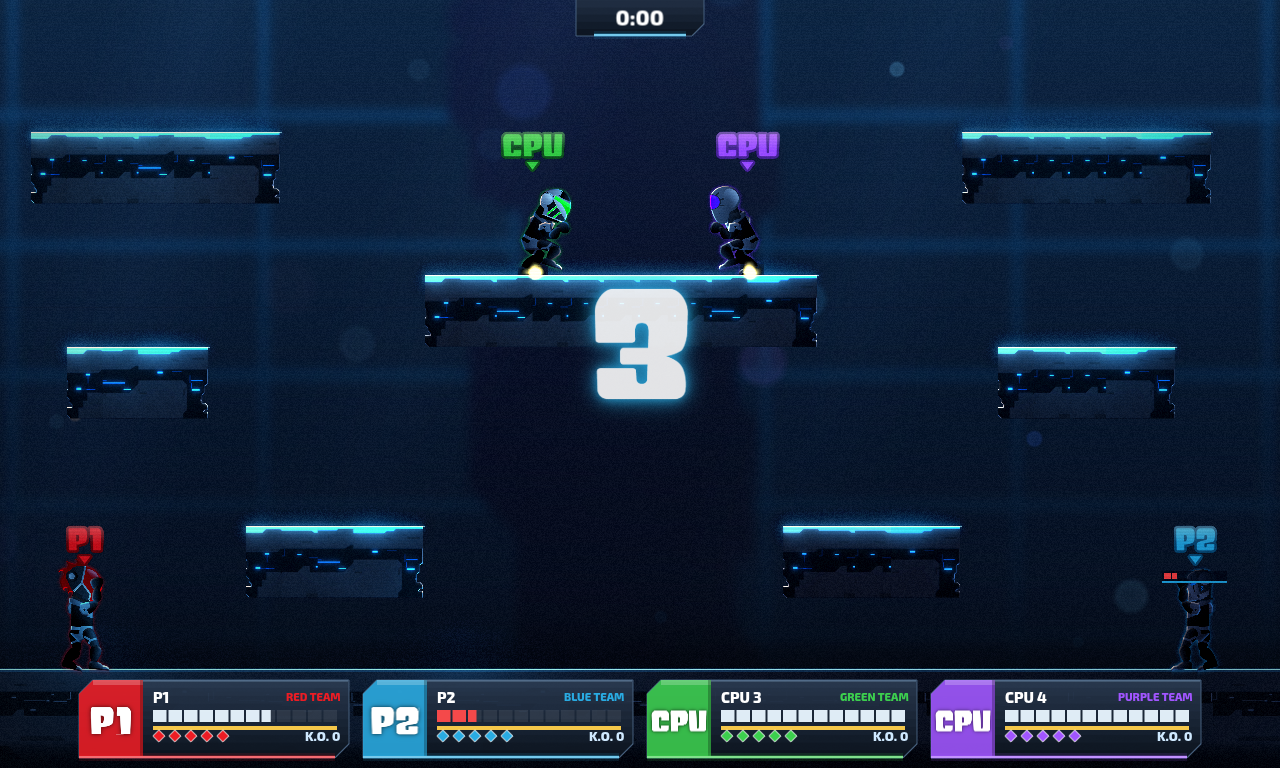
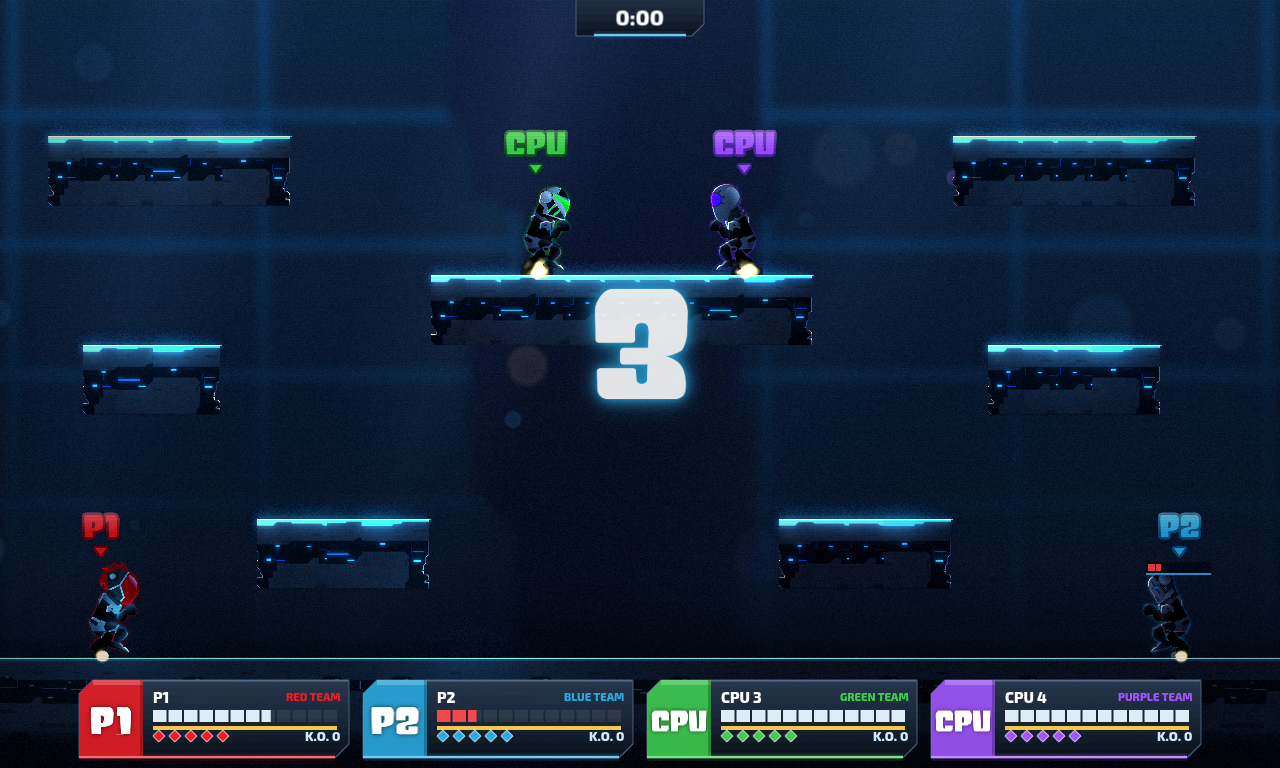
Player tags: more space above the arrow

diff --git a/web/src/ui/Type.ts b/web/src/ui/Type.ts
@@ -205,7 +205,7 @@ export function makeTagTexture(scene: Phaser.Scene, key: string, text: string, c
   const l = layout(scene, text, 150 * 0.45);
   const arrow = 18;
   /** Space between the letters and the pointer. */
-  const gap = 14;
+  const gap = 26;
   const w = Math.ceil(l.width + outline * 2 + 4);
   const h = Math.ceil(l.height + gap + arrow + outline * 2 + 4);
   if (scene.textures.exists(key)) scene.textures.remove(key);
